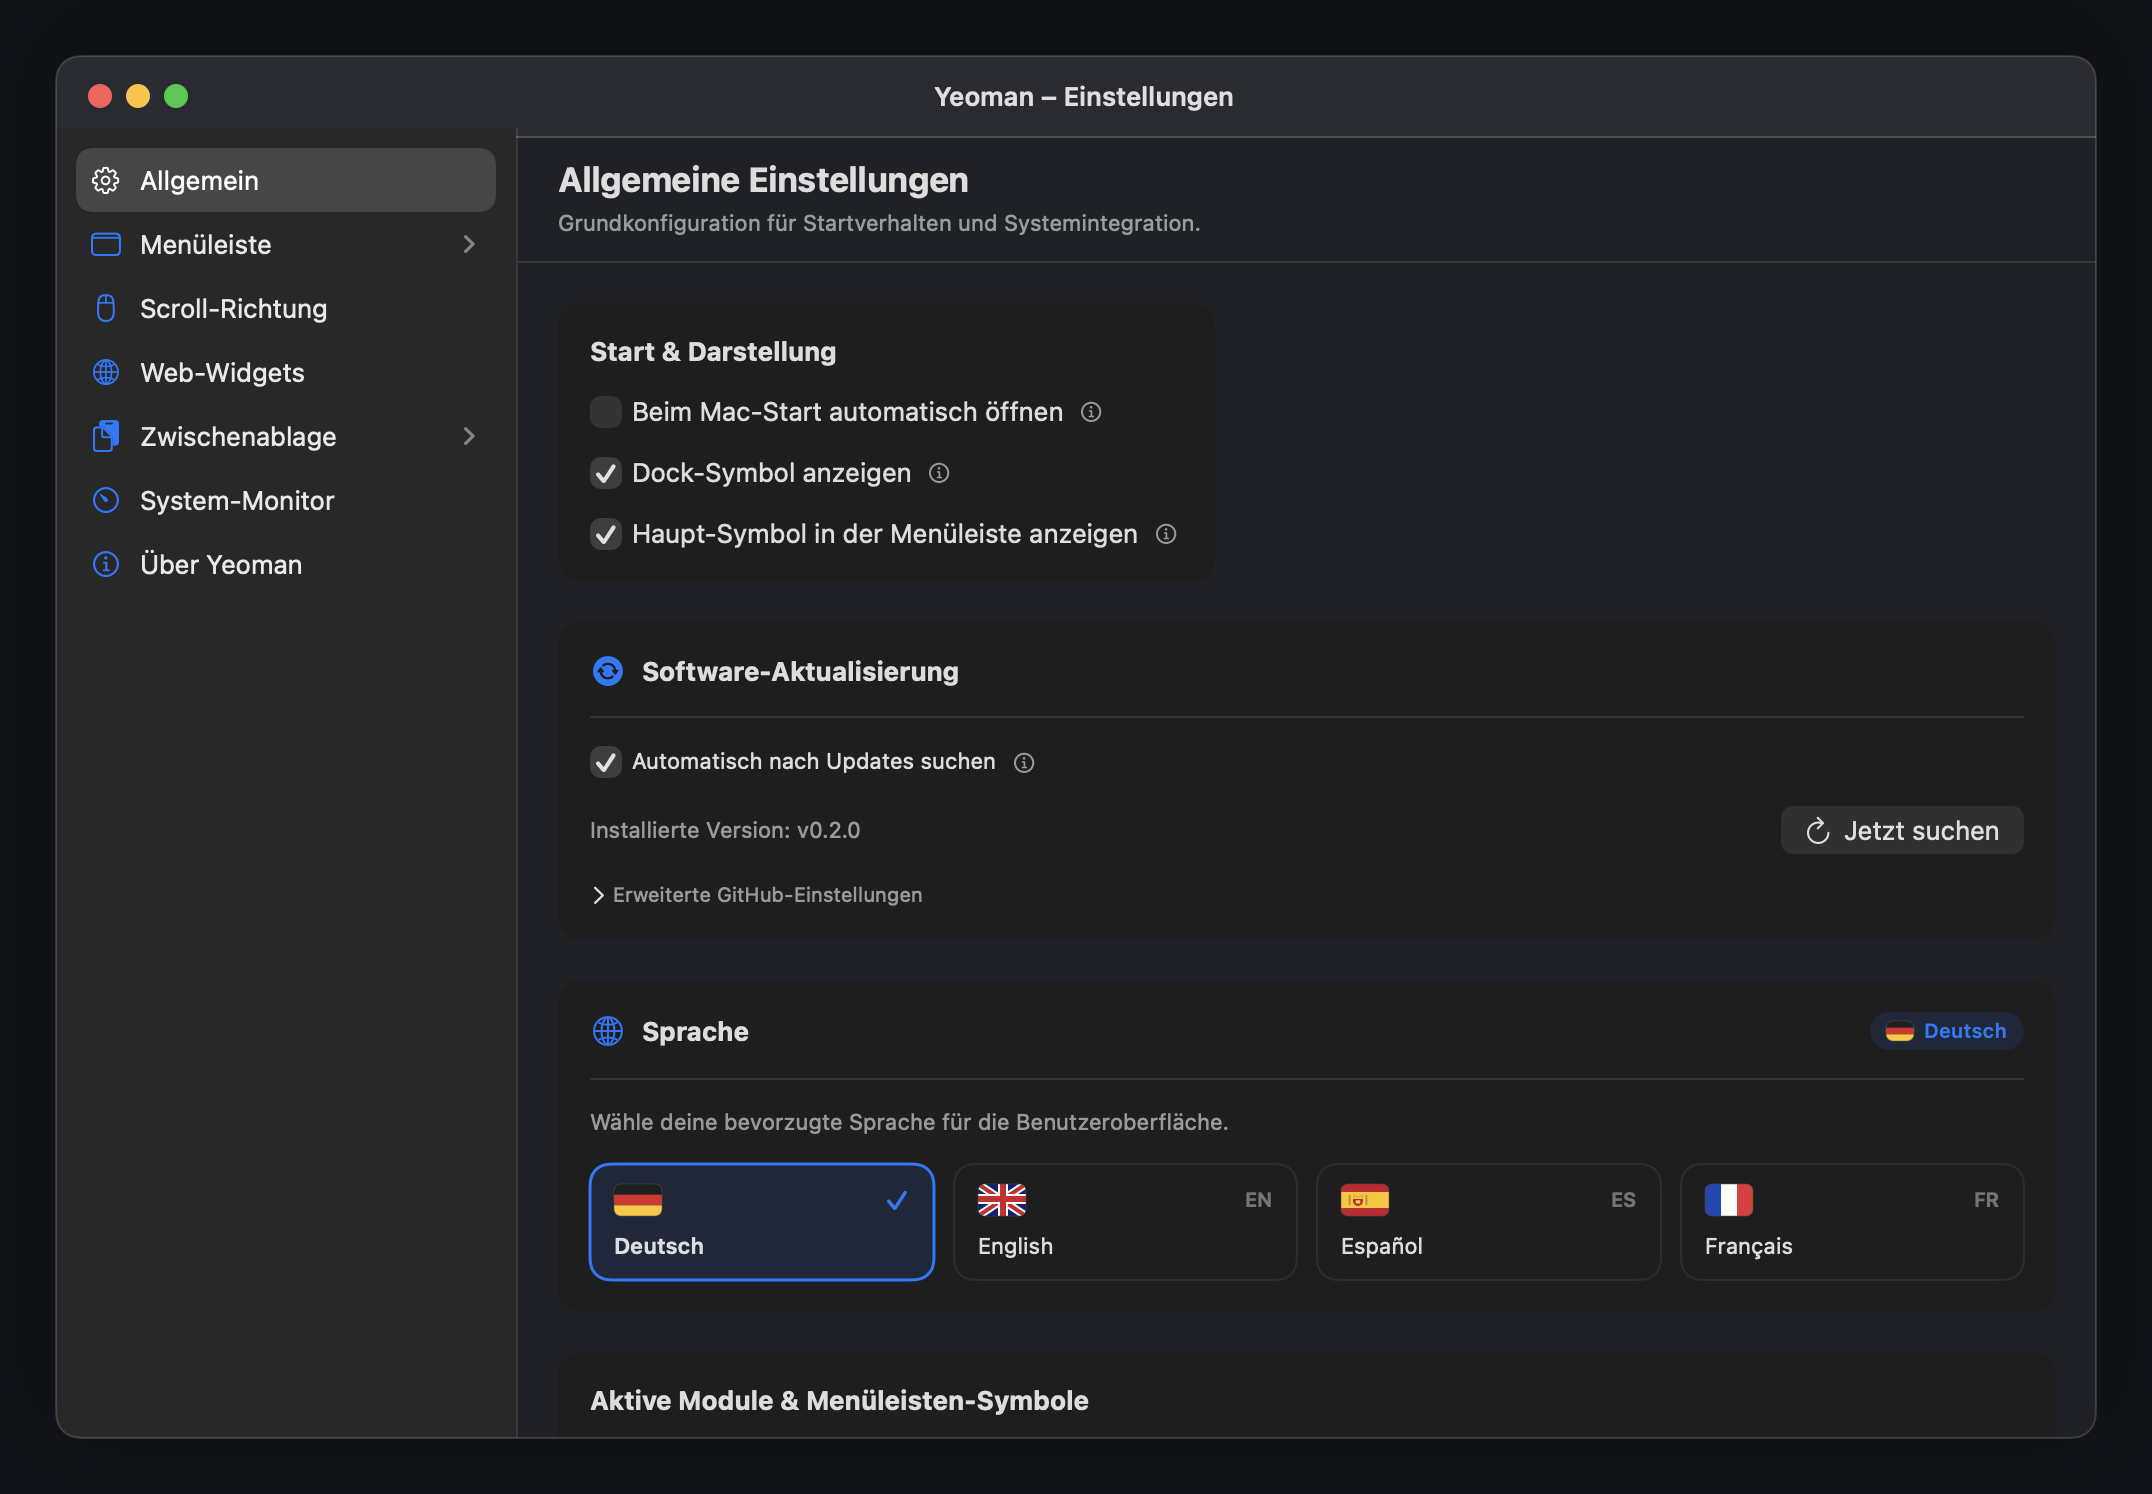
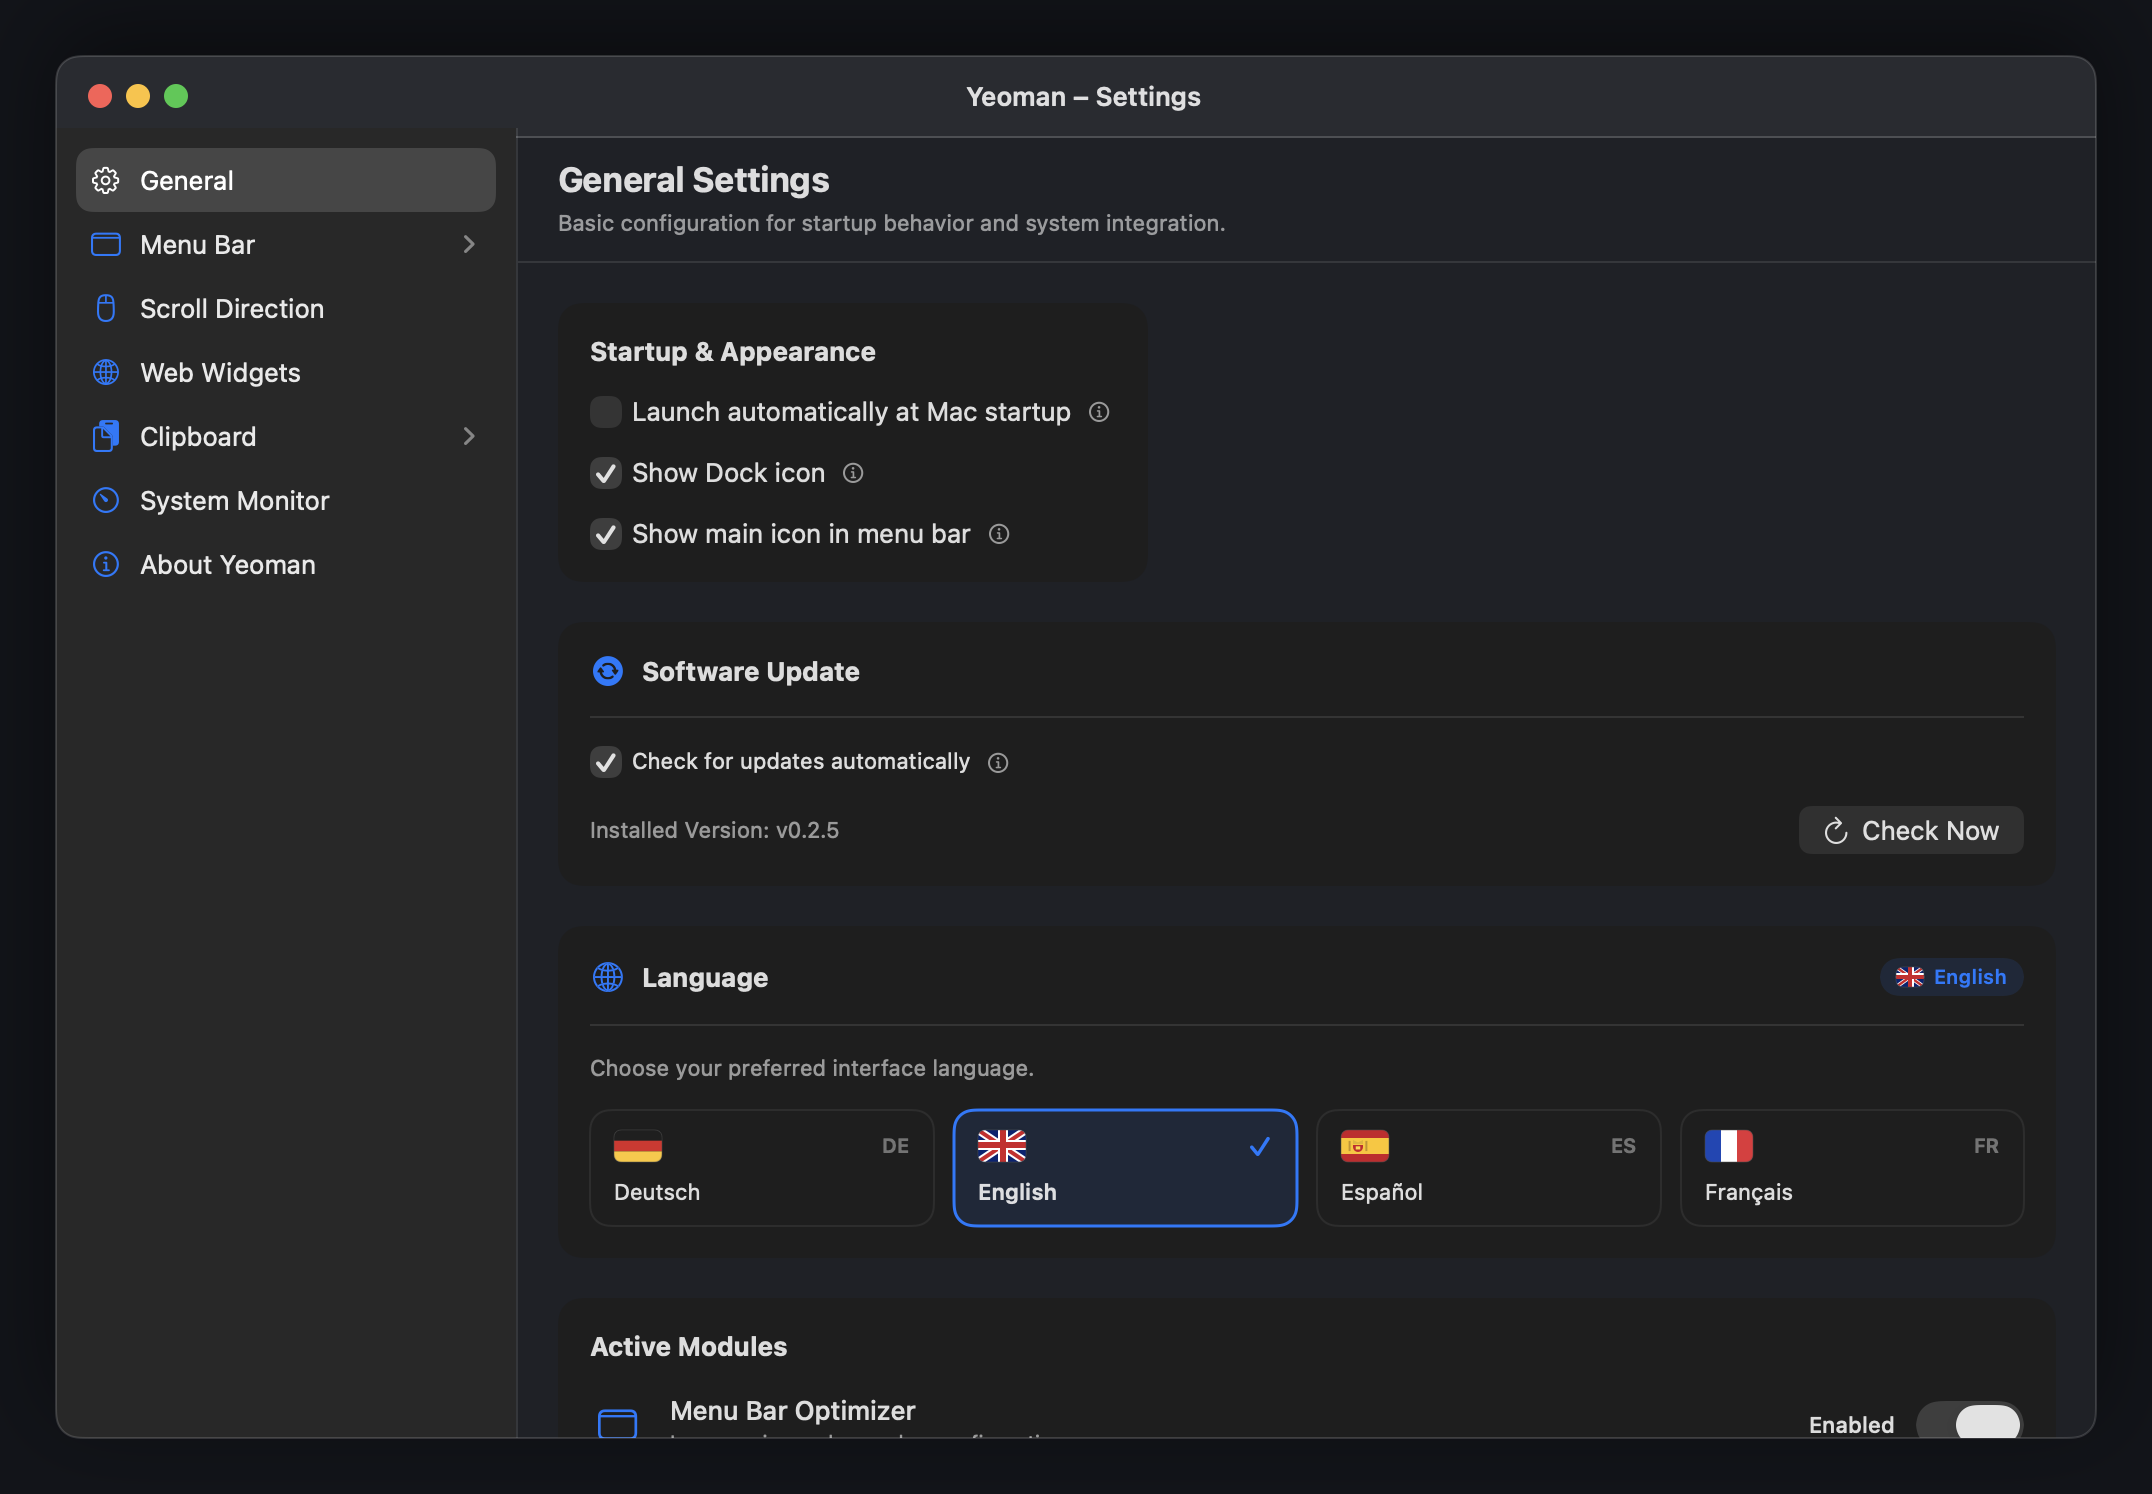
docs: switch all app screenshots to English and complete clipboard localization

diff --git a/Sources/Yeoman/Modules/Clipboard/ClipboardView.swift b/Sources/Yeoman/Modules/Clipboard/ClipboardView.swift
@@ -180,11 +180,11 @@ public struct ClipboardView: View {
             
             // Footer
             HStack {
-                Text("\(displayedItems.count) von \(store.items.count) Einträgen")
+                Text(String(format: l10n("clipboard.items_count_format"), displayedItems.count, store.items.count))
                     .font(.caption2)
                     .foregroundColor(.secondary)
                 Spacer()
-                Text("Klick zum Kopieren in Zwischenablage")
+                Text(l10n("clipboard.footer_hint"))
                     .font(.caption2)
                     .foregroundColor(.secondary.opacity(0.8))
             }
@@ -208,9 +208,9 @@ public struct ClipboardView: View {
                 Image(systemName: "photo")
                     .font(.system(size: 38))
                     .foregroundColor(.accentColor.opacity(0.7))
-                Text("Keine Bilder im Zwischenspeicher")
+                Text(l10n("clipboard.empty_images_title"))
                     .font(.headline)
-                Text("Kopiere ein Bild im Browser, erstelle einen Screenshot oder kopiere eine Bilddatei im Finder – sie erscheint sofort hier.")
+                Text(l10n("clipboard.empty_images_sub"))
                     .font(.caption)
                     .multilineTextAlignment(.center)
                     .foregroundColor(.secondary)
@@ -219,9 +219,9 @@ public struct ClipboardView: View {
                 Image(systemName: "pin.slash")
                     .font(.system(size: 36))
                     .foregroundColor(.secondary.opacity(0.6))
-                Text("Keine Favoriten vorhanden")
+                Text(l10n("clipboard.empty_pinned_title"))
                     .font(.headline)
-                Text("Bewege die Maus über einen Eintrag und klicke auf das Pin-Symbol, um ihn dauerhaft oben zu behalten.")
+                Text(l10n("clipboard.empty_pinned_sub"))
                     .font(.caption)
                     .multilineTextAlignment(.center)
                     .foregroundColor(.secondary)
@@ -230,9 +230,9 @@ public struct ClipboardView: View {
                 Image(systemName: "doc.on.clipboard")
                     .font(.system(size: 36))
                     .foregroundColor(.secondary.opacity(0.6))
-                Text(store.searchQuery.isEmpty ? "Zwischenablage ist leer" : "Keine Treffer gefunden")
+                Text(store.searchQuery.isEmpty ? l10n("clipboard.empty_history_title") : l10n("clipboard.empty_no_results"))
                     .font(.headline)
-                Text("Kopierte Texte, Links und Bilder werden hier automatisch erfasst.")
+                Text(l10n("clipboard.empty_history_sub"))
                     .font(.caption)
                     .foregroundColor(.secondary)
             }
@@ -406,7 +406,7 @@ struct ClipboardRowView: View {
                                 .font(.caption2)
                                 .foregroundColor(.secondary.opacity(0.6))
                         } else if item.type != .image {
-                            Text("• \(item.characterCount) Zeichen")
+                            Text("• \(item.characterCount) \(l10n("clipboard.characters"))")
                                 .font(.caption2)
                                 .foregroundColor(.secondary.opacity(0.6))
                         }
@@ -493,6 +493,7 @@ struct ClipboardRowView: View {
     private func formatTime(_ date: Date) -> String {
         let formatter = RelativeDateTimeFormatter()
         formatter.unitsStyle = .short
+        formatter.locale = Locale(identifier: LocalizationManager.shared.effectiveLanguage.rawValue)
         return formatter.localizedString(for: date, relativeTo: Date())
     }
 }

diff --git a/Sources/Yeoman/Core/LocalizationManager.swift b/Sources/Yeoman/Core/LocalizationManager.swift
@@ -872,6 +872,60 @@ public final class LocalizationManager: ObservableObject {
             .spanish: "Eliminar",
             .french: "Supprimer"
         ],
+        "clipboard.characters": [
+            .german: "Zeichen",
+            .english: "chars",
+            .spanish: "caracteres",
+            .french: "caractères"
+        ],
+        "clipboard.items_count_format": [
+            .german: "%d von %d Einträgen",
+            .english: "%d of %d items",
+            .spanish: "%d de %d elementos",
+            .french: "%d sur %d éléments"
+        ],
+        "clipboard.empty_images_title": [
+            .german: "Keine Bilder im Zwischenspeicher",
+            .english: "No images in clipboard",
+            .spanish: "No hay imágenes en el portapapeles",
+            .french: "Aucune image dans le presse-papiers"
+        ],
+        "clipboard.empty_images_sub": [
+            .german: "Kopiere ein Bild im Browser, erstelle einen Screenshot oder kopiere eine Bilddatei im Finder – sie erscheint sofort hier.",
+            .english: "Copy an image in the browser, take a screenshot, or copy an image file in Finder – it will appear here instantly.",
+            .spanish: "Copia una imagen en el navegador, haz una captura o copia un archivo de imagen en Finder: aparecerá aquí al instante.",
+            .french: "Copiez une image dans le navigateur, faites une capture d'écran ou copiez un fichier image dans le Finder : elle apparaîtra instantanément ici."
+        ],
+        "clipboard.empty_pinned_title": [
+            .german: "Keine Favoriten vorhanden",
+            .english: "No favorites saved",
+            .spanish: "No hay favoritos guardados",
+            .french: "Aucun favori enregistré"
+        ],
+        "clipboard.empty_pinned_sub": [
+            .german: "Bewege die Maus über einen Eintrag und klicke auf das Pin-Symbol, um ihn dauerhaft oben zu behalten.",
+            .english: "Hover over an entry and click the pin icon to keep it pinned at the top.",
+            .spanish: "Pasa el ratón sobre un elemento y haz clic en el icono de chincheta para mantenerlo fijado arriba.",
+            .french: "Survolez un élément et cliquez sur l'épingle pour le garder en haut."
+        ],
+        "clipboard.empty_history_title": [
+            .german: "Zwischenablage ist leer",
+            .english: "Clipboard is empty",
+            .spanish: "El portapapeles está vacío",
+            .french: "Le presse-papiers est vide"
+        ],
+        "clipboard.empty_no_results": [
+            .german: "Keine Treffer gefunden",
+            .english: "No results found",
+            .spanish: "No se encontraron resultados",
+            .french: "Aucun résultat trouvé"
+        ],
+        "clipboard.empty_history_sub": [
+            .german: "Kopierte Texte, Links und Bilder werden hier automatisch erfasst.",
+            .english: "Copied text, links, and images will be captured here automatically.",
+            .spanish: "Los textos, enlaces e imágenes copiados se guardarán aquí automáticamente.",
+            .french: "Les textes, liens et images copiés seront automatiquement enregistrés ici."
+        ],
 
         // Common
         "common.enabled": [

diff --git a/Scripts/capture_real_screenshots.swift b/Scripts/capture_real_screenshots.swift
@@ -9,7 +9,10 @@ struct CaptureRealScreenshots {
         let app = NSApplication.shared
         app.setActivationPolicy(.prohibited)
         NSApp.appearance = NSAppearance(named: .darkAqua)
-        
+        // Force English localization for documentation and GitHub screenshots
+        UserDefaults.standard.set(AppLanguage.english.rawValue, forKey: "app_language")
+        LocalizationManager.shared.selectedLanguage = .english
+
         let outputDir = URL(fileURLWithPath: "Resources/Mockups")
         try? FileManager.default.createDirectory(at: outputDir, withIntermediateDirectories: true)
         
@@ -20,7 +23,7 @@ struct CaptureRealScreenshots {
         // ----------------------------------------------------
         let settingsWidth: CGFloat = 1020
         let settingsHeight: CGFloat = 650
-        let settingsChrome = WindowChrome(title: "Yeoman – Einstellungen", contentWidth: settingsWidth, contentHeight: settingsHeight) {
+        let settingsChrome = WindowChrome(title: "Yeoman – Settings", contentWidth: settingsWidth, contentHeight: settingsHeight) {
             SettingsView()
         }
         .preferredColorScheme(.dark)
@@ -92,7 +95,7 @@ struct CaptureRealScreenshots {
         
         let webWidth: CGFloat = 880
         let webHeight: CGFloat = 560
-        let webChrome = WindowChrome(title: "Yeoman – Web-Widgets", contentWidth: webWidth, contentHeight: webHeight) {
+        let webChrome = WindowChrome(title: "Yeoman – Web Widgets", contentWidth: webWidth, contentHeight: webHeight) {
             WebPanelSettingsView(module: webModule)
         }
         .preferredColorScheme(.dark)
@@ -142,7 +145,7 @@ struct CaptureRealScreenshots {
         
         let menuWidth: CGFloat = 880
         let menuHeight: CGFloat = 560
-        let menuChrome = WindowChrome(title: "Yeoman – Menüleisten-Optimizer", contentWidth: menuWidth, contentHeight: menuHeight) {
+        let menuChrome = WindowChrome(title: "Yeoman – Menu Bar Spacing", contentWidth: menuWidth, contentHeight: menuHeight) {
             MenuBarSettingsView(module: menuBarModule)
         }
         .preferredColorScheme(.dark)
